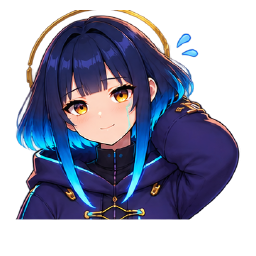
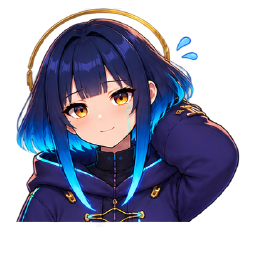
La grille n'est pas la limite du personnage
Vous aviez raison, et je m'étais arrêté trop tôt : l'anneau était bien
rogné. Le fichier que j'avais livré avait un SOMMET PLAT.

Le symptôme se lit dans le profil des premières rangées encrées. Un apex
naturel commence étroit et s'élargit — « neutre » fait 23, 34, 43, 50,
56. La version que j'avais écrite faisait 40, 35, 28, 26, 24 : large
d'abord, puis se rétrécissant. C'est la signature d'une coupe franche,
pas d'un arc.

LA CAUSE : je découpais sur les lignes de la grille. Or son halo dépasse
de sa case — il commence à la rangée 673 de la planche alors que la ligne
de grille tombe à 683. Dix rangées du sommet de l'anneau étaient perdues
à chaque découpe.

Et il n'existe aucune bande entièrement vide entre elle et « contente » :
les deux se touchent en alpha faible. J'ai cherché des rangées sans
encre, il fallait chercher des rangées sans encre FRANCHE — « contente »
finit à 672, « genee » commence à 675, et c'est là qu'il faut trancher.

Le profil est maintenant 13, 30, 39, 46, 50, 54. Un arc.

Trois mesures fausses en chemin, toutes du même genre : j'ai lu comme des
données les planchers que j'avais moi-même fixés dans mes filtres. « Son
halo dépasse de 60 px » était mon offset de recherche. Deux fois de
suite. C'est consigné dans le découpeur avec le reste.

Vous m'aviez autorisé un débordement pour cette vignette — il n'a pas
servi. À la bonne échelle elle occupe 224×219 dans la boîte de 256, sans
[…]

Changed region(s): [[0.0625, 0.0312, 0.9375, 0.875], [0.375, 0.4375, 0.4062, 0.4688]]

diff --git a/src/lib/miaCadrage.ts b/src/lib/miaCadrage.ts
@@ -45,7 +45,7 @@ const CADRES: Record<ExpressionMia, CadreVisage> = {
   contente: { z: 1.349, x: 0.503, y: 0.315 },
   contrariee: { z: 1.416, x: 0.587, y: 0.316 },
   eteinte: { z: 1.396, x: 0.508, y: 0.365 },
-  genee: { z: 1.396, x: 0.451, y: 0.39 },
+  genee: { z: 1.34, x: 0.455, y: 0.387 },
   joie: { z: 1.288, x: 0.484, y: 0.321 },
   lasse: { z: 1.377, x: 0.466, y: 0.315 },
   menacante: { z: 1.396, x: 0.487, y: 0.376 },
